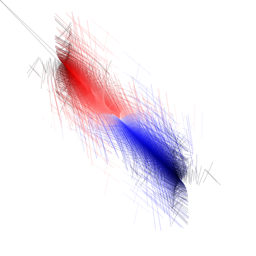
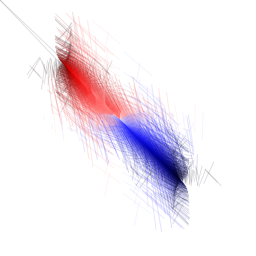
line drawing changed enough to need a new test image

diff --git a/src/SpearGraphic/Fourth.cs b/src/SpearGraphic/Fourth.cs
@@ -106,7 +106,7 @@ namespace ImageFunctions.SpearGraphic
 					penw += penrate;
 
 					Color c = TweenColor(p.PenEnd,p.PenStart,maxrad,0,rad);
-					DrawLine(image,c,lx,ly,x,y,penw);
+					DrawLine(image,c,lx,ly,x,y,Math.Max(penw,0.01));
 
 					double dist = Dist(cen,new DPoint(x,y));
 					if (dist < 1.0) {
